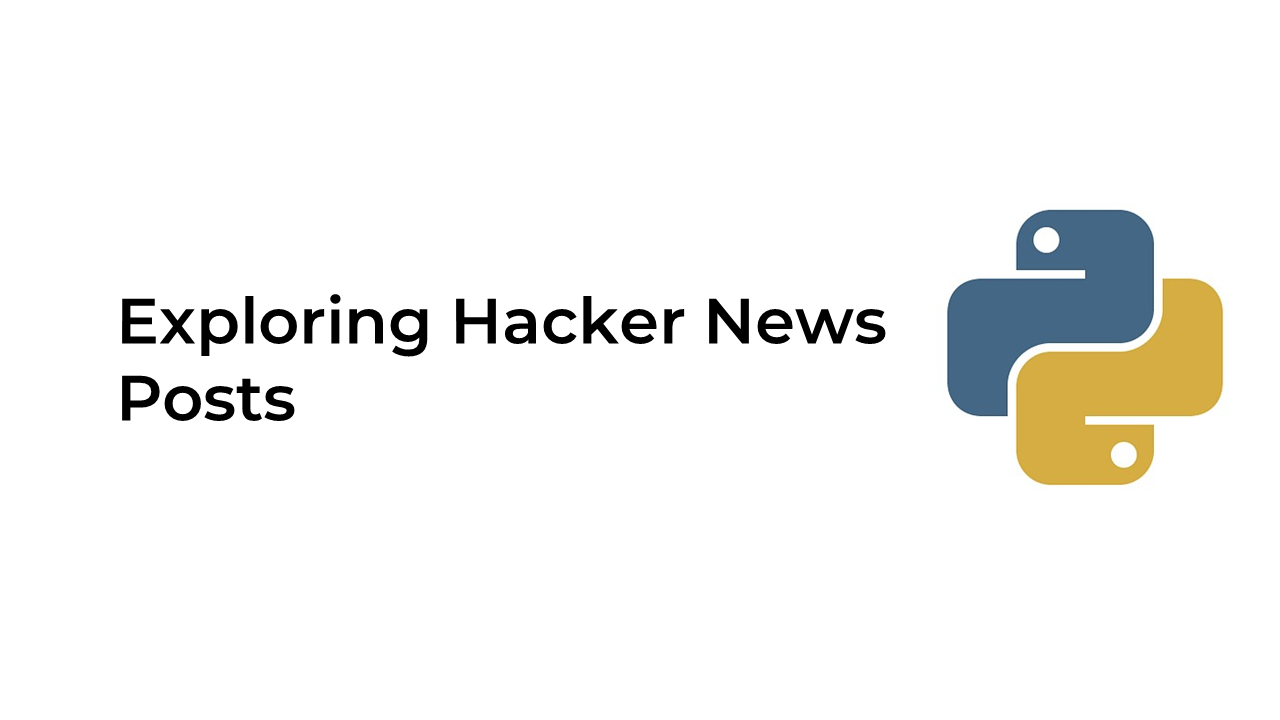
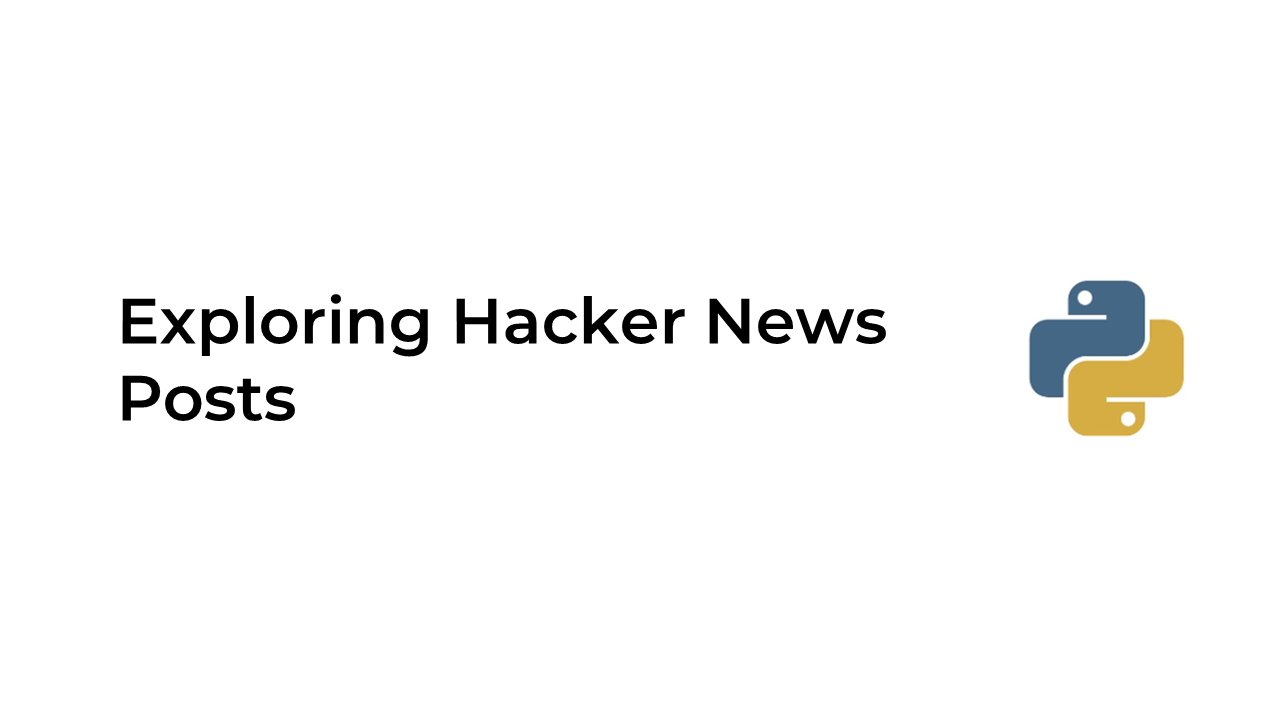
Add files via upload

diff --git a/index.html b/index.html
@@ -27,7 +27,7 @@
 			<header id="header">
 				<div class="inner">
 					<a href="#" class="image avatar"><img src="images/Untitled.png" alt="" /></a>
-					<h1><strong>Data Analyst</strong><br />
+					<h1><strong>Matt Heyda</strong><br />
 					Excel | SQL | Python | Power BI<br />
 				</div>
 			</header>
@@ -70,7 +70,7 @@
 							</article>
 							
 							<article class="col-6 col-12-xsmall work-item">
-								<a href="https://github.com/matt-heyda/Finding-Heavy-Traffic-Indicators-on-I-94/blob/main/Finding%20Heavy%20Traffic%20Indicators%20on%20I-94.ipynb" class="image fit thumb"><img src="images/Indicators of Heavy Traffic on I-94.png" alt="" /></a>
+								<a href="https://github.com/matt-heyda/Finding-Heavy-Traffic-Indicators-on-I-94/blob/main/Finding%20Heavy%20Traffic%20Indicators%20on%20I-94.ipynb" class="image fit thumb"><img src="images/finding heavy TEST.png" alt="" /></a>
 								
 								<p>In this analysis, I aimed to determine a few indicators of heavy traffic on I-94. Understanding what indicators contribute to the severity of traffic could aid in making informed and data-driven decisions on how to prepare and potentially reduce the impact of these.</p>
 								<br>
@@ -84,7 +84,7 @@
 							</article>
 							
 							<article class="col-6 col-12-xsmall work-item">
-								<a href="https://github.com/matt-heyda/Profitable-App-Profiles-for-the-App-Store-and-Google-Play-Market/blob/main/Profitable%20App%20Profiles%20for%20the%20App%20Store%20and%20Google%20Play%20Markets.ipynb" class="image fit thumb"><img src="images/profitable app profiles.png" alt="" /></a>
+								<a href="https://github.com/matt-heyda/Profitable-App-Profiles-for-the-App-Store-and-Google-Play-Market/blob/main/Profitable%20App%20Profiles%20for%20the%20App%20Store%20and%20Google%20Play%20Markets.ipynb" class="image fit thumb"><img src="images/profitable app TEST.png" alt="" /></a>
 								
 								<p>This Jupyter Notebook project contains an analysis of Android and iOS mobile apps using datasets found on Kaggle. It attempts to understand what type of apps are likely to attract more users, to assist a hypothetical company in deciding on which apps to develop within these markets.</p>
 								
@@ -101,7 +101,7 @@
 							
 						
 							<article class="col-6 col-12-xsmall work-item">
-								<a href="https://github.com/matt-heyda/Exploring-eBay-Car-Sales-Data/blob/main/Exploring%20eBay%20Car%20Sales%20Data.ipynb" class="image fit thumb"><img src="images/exploring ebay.png" alt="" /></a>
+								<a href="https://github.com/matt-heyda/Exploring-eBay-Car-Sales-Data/blob/main/Exploring%20eBay%20Car%20Sales%20Data.ipynb" class="image fit thumb"><img src="images/exploring ebay TEST.png" alt="" /></a>
 								
 								<p>This project aims to clean and analyse a dataset of used cars from eBay Kleinanzeigen, a classifieds section of the German eBay website.</p>
 								<br>
@@ -113,7 +113,7 @@
 							</article>
 							
 							<article class="col-6 col-12-xsmall work-item">
-								<a href="https://github.com/matt-heyda/Exploring-Hacker-News-Posts/blob/main/Exploring%20Hacker%20News%20Posts.ipynb" class="image fit thumb"><img src="images/exploring hacker.png" alt="" /></a>
+								<a href="https://github.com/matt-heyda/Exploring-Hacker-News-Posts/blob/main/Exploring%20Hacker%20News%20Posts.ipynb" class="image fit thumb"><img src="images/exploring hacker TEST.png" alt="" /></a>
 								
 								<p>This project is an exploration of submissions made on the Hacker News website to determine whether 'Ask HN' or 'Show HN' receive more comments on average, and whether posts created at a specific time receive more comments on average.</p>
 									<br>
